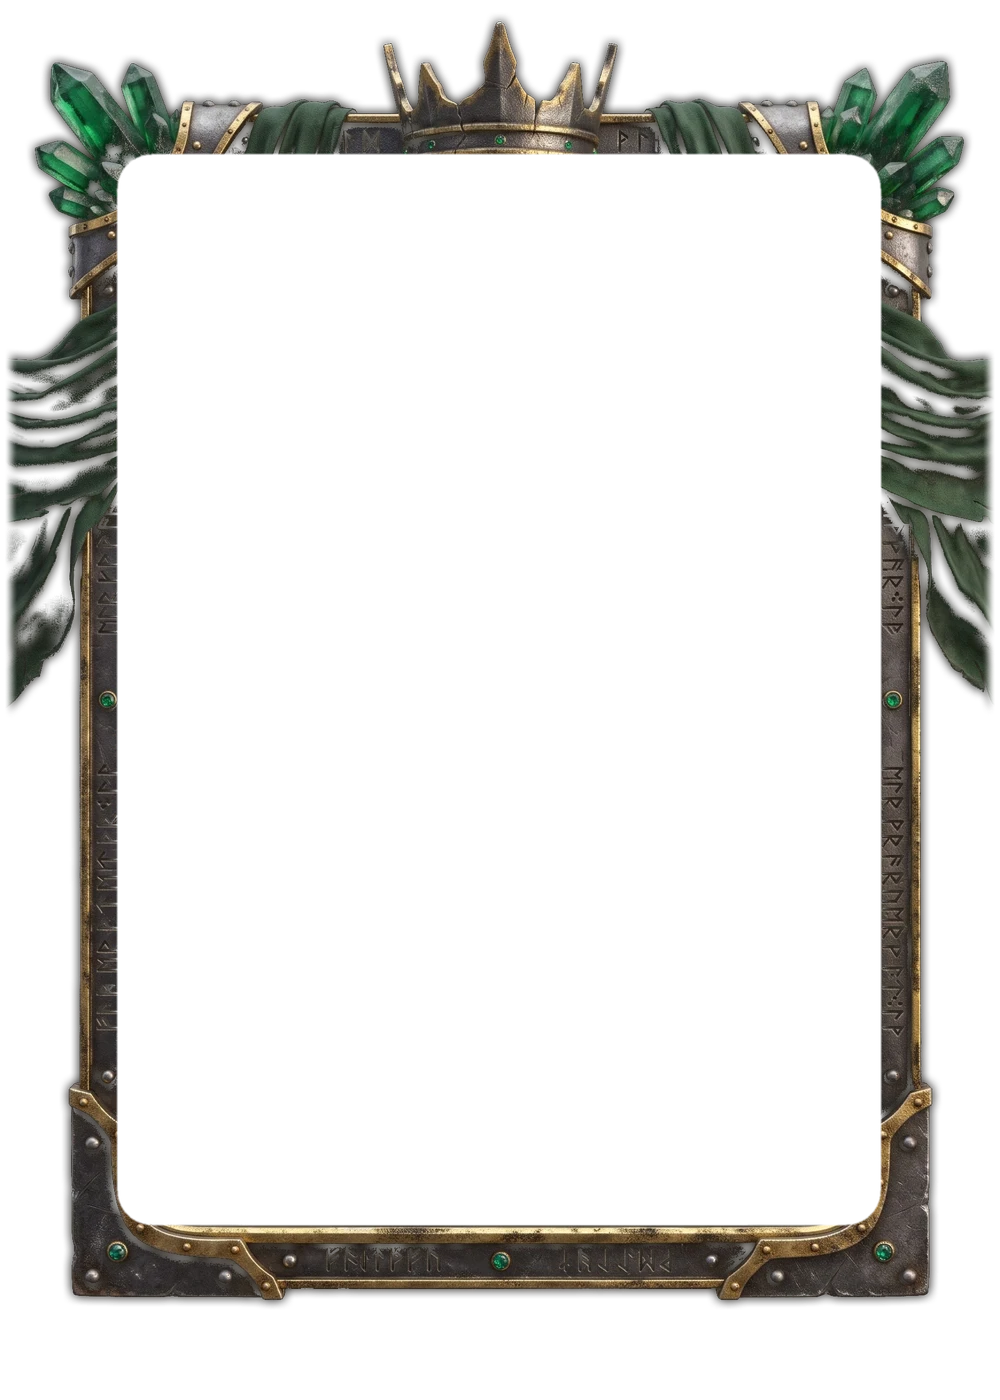
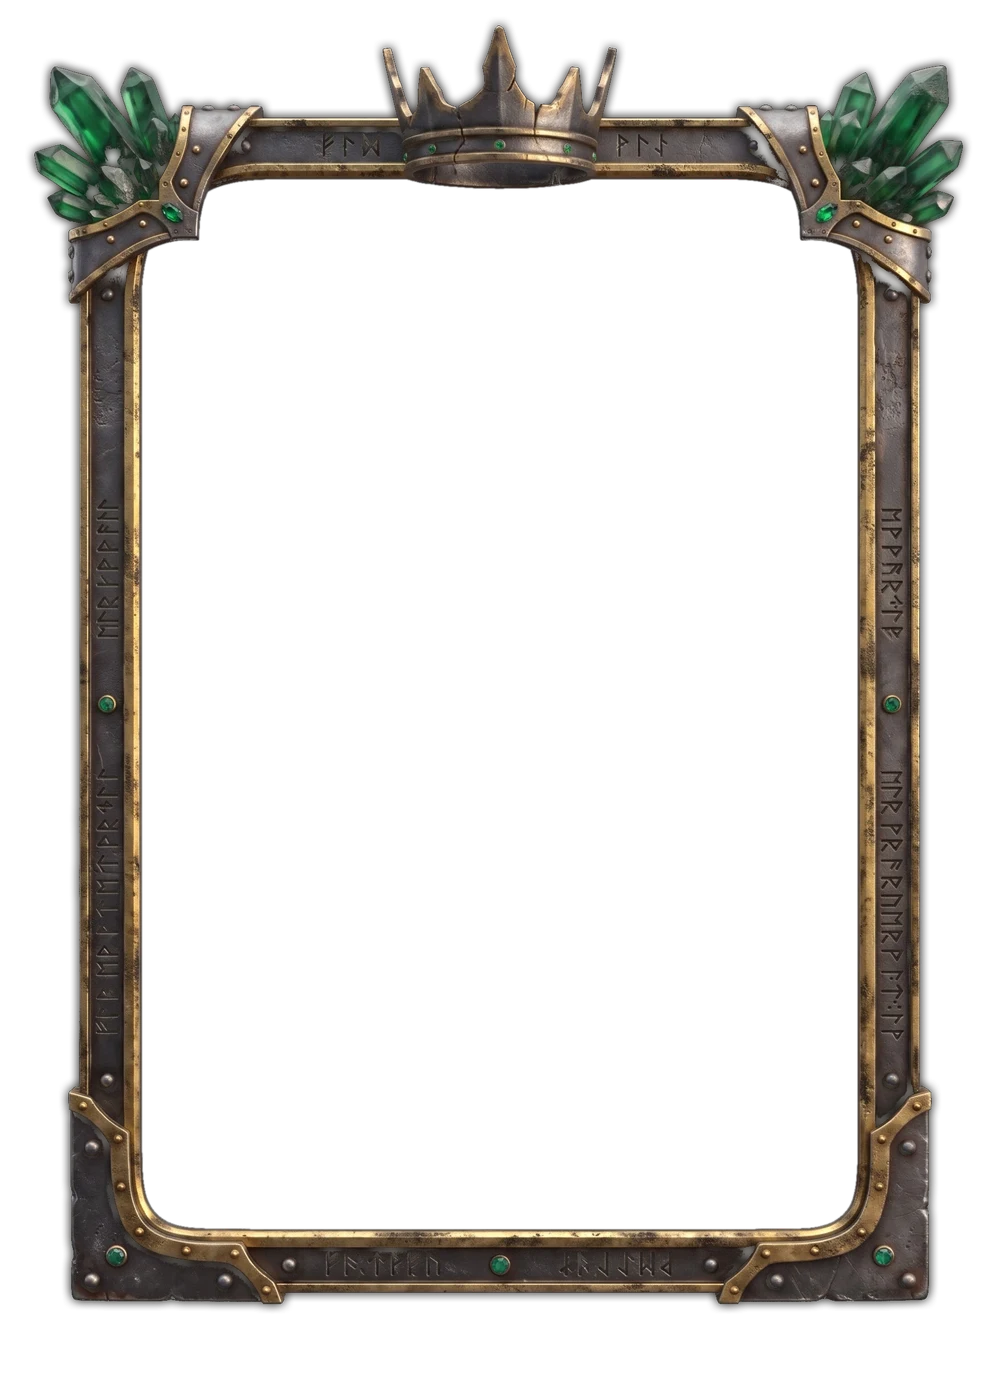
rebuild Destino with the cloth-free frame
Claude-Session: https://claude.ai/code/session_01N8XLJoyFiwvoZXFrULaieo

Changed region(s): [[0.0, 0.0, 1.0, 0.9521]]

diff --git a/components/cancha-card.tsx b/components/cancha-card.tsx
@@ -174,7 +174,7 @@ const ROUPAS = {
   // e moldura fina de ouro com presentes roxos e dourados, laços, bolas de Natal e ametistas (arte do dono em `prototipos/natal-timedomes-*-dono.jpg`).
   natalTimeDoMes: { background: "premium-natal-timedomes", overflow: "premium-natal-timedomes-vaza", statsLift: 4, statsPadX: 12, artInset: { x: 1.43, y: 1.02, radius: 7.5 }, window: "ring", windowInset: { x: 1.43, y: 1.02 }, windowRadius: 7.5, contentPad: 6.25, artFrame: true, trim: null, metal: ["#b8902f", "#b8902f", "#fff1c2"], accent: "#f3d27a", light: "220 180 255", bar: "#1a0a26", muted: "#f1dcc0", sparkles: false, neon: "#f3d27a" },
   // Destino (2026-11-05, evento "Destino" da Loja de dezembro, carta de prestígio, nível 5, 600 CC; design original que só alude a um vilão de cinema, sem nome, logo ou traje): ferro forjado e aço com runas
-  // de um alfabeto inventado brilhando em verde-esmeralda, pano verde-musgo e cristais, e moldura de ferro e ouro velho com runas, coroa de ferro rachada no topo e pano caindo dos cantos (arte do dono em `prototipos/destino-*-dono.jpg`).
+  // de um alfabeto inventado brilhando em verde-esmeralda, pano verde-musgo e cristais, e moldura de ferro e ouro velho com runas, coroa de ferro rachada no topo e pano caindo dos cantos (arte do dono em `prototipos/destino-fundo-dono.jpg` e `destino-borda-sem-pano-dono.jpg`).
   destino: { background: "premium-destino", overflow: "premium-destino-vaza", artInset: { x: 1.43, y: 1.02, radius: 7.5 }, window: "ring", windowInset: { x: 1.43, y: 1.02 }, windowRadius: 7.5, contentPad: 6.25, artFrame: true, trim: null, metal: ["#6b6f73", "#6b6f73", "#d6c07a"], accent: "#c9a85c", light: "120 255 170", bar: "#06100b", muted: "#b9e8c8", sparkles: false, neon: "#3dffa0" },
   // GUARDADAS, fora da Loja (sem entrada em `CARD_SKINS`; para usar: entrada lá, `case` em `skinRoupa` e `SKIN_CLASSES`): Voltagem e Maré.
   // Voltagem (2026-11-05, pedido do dono do app: o estilo da borda da referência dele no nosso retângulo): fio duplo de ouro pálido por dentro e

diff --git a/.claude/rules/design-system.md b/.claude/rules/design-system.md
@@ -47,7 +47,7 @@ Desde 2026-10-29 todas as cartas usam a `CanchaCard` (o `PlayerCard` a chama). A
 - **Lenda do Trovão** (carta de prestígio **do evento Toró**, na seção Evento da Loja, **nível 5, 600 CC**, à venda só até 30/11/2026; aprovada pelo dono do app em 2026-10-31, primeiro como fixa no nível 10 e no mesmo dia passada para o evento no nível 5): a **moldura de metal dourado envelhecido** de um concept que o dono criou no Gemini, com o raio no topo e raios dourados e azuis, entra por fora da carta como arte (`overflow`), **sem o tubo de neon da carta** (`artFrame`), cobrindo uns 12 px da borda; os **raios azuis estalam como trovão** (`overflowBolts`; os dourados ficam acesos, porque têm a cor do metal e não dá para separar pela cor); o fundo é o miolo da arte de tempestade dele (nuvens carregadas com luz dourada). Scripts `prototipos/skin-lenda-arte.cjs` (moldura e raios, do concept) e `skin-lenda-fundo.cjs` (fundo). Para ficar perfeita, o dono vai gerar no Gemini a moldura, o fundo e os raios em peças separadas. Testadas e descartadas no caminho, como experimento: a carta com a arte de chuva (árvore e água) e a de tempestade com moldura azul e dourada.
 - **Moldura fina com louros e gemas (Rubi e Ícone, 2026-11-05, aprovada pelo dono do app):** moldura de ouro de ~3% da largura, louros dourados e gemas **por fora** (arte do Gemini em 728 × 1024, `prototipos/borda-louros-dono.jpg`), montada por `prototipos/montar-carta.cjs` (`GEM="matiz,saturação,luz"` troca só as gemas azuis: rubi na Rubi, diamantes claros na Ícone). **Camadas: a borda por cima de tudo; o conteúdo vai por baixo** (decisão do dono do app): a arte do fundo (`artInset`) e a janela (`windowInset`, 1,43% e 1,02%, raio 7,5cqw) seguem até quase a borda da carta, e `contentPad` (6,25cqw) devolve ao nome, ao selo do OVR, à faixa e às estatísticas o recuo de sempre (também a foto, a vinheta e o escurecimento de baixo acompanham). O miolo da moldura é o preto ligado ao centro (inundação), então o **relevo que cruza a borda de dentro fica por cima do conteúdo**; cortar o miolo num retângulo apagava o relevo interno. **Sem o aglomerado vazando**: o recorte do aglomerado da arte achatada (Voltagem, Rubi e Ícone) ficou "Frankenstein" e foi recusado; vazar só com peça própria do Gemini (elemento sozinho, sobre preto, bem iluminado, sem partes escuras). O formato é sempre o retângulo arredondado 5:7 e as informações nunca mudam; o que muda é o material, os enfeites e o elemento. Regras, prompts e armadilhas no skill `cartas-cancha`.
 - **Cartas de Natal de dezembro de 2026 (2026-11-05, GUARDADAS, ainda não ligadas; decisão do dono do app; o Time da Semana saiu do jogo):** mesmo padrão da Rubi e da Ícone (borda por cima, conteúdo por baixo, enfeites por cima do conteúdo; `montar-carta.cjs`). **Verde = Campeão do Mês** (`natalCampeao`, `51,89,677,971 - 12 30,31,698,983`; tricô verde e moldura com pinheiro, laços, sinos e azevinho). **Azul-gelo = destaques da rodada** (`natalGelo`, `110,160,1313,1845 - 12 18,31,710,1002`; boneco de neve, laços azuis e montes de neve que cobrem os cantos de baixo, `statsLift` 6: aprovado deixar um pouco de enfeite sob os números; `statsPadX` e `namePadX` existem sem uso). **Vermelha = Melhor Jogador da rodada** (`natalCraque`, `51,80,677,945 - 12 31,35,697,990`, `statsLift` 6; sinos, estrela, laços, pinhas, laranjas e neve). **Cinza-carvão = Bola Murcha** (`natalMurcha`, `131,192,1598,2240 - 12 76,84,1654,2352`; tricô cinza com o presente que solta a bola murcha, moldura de aço fosco com pinheiro, laços e bola de pano murcha; `matte`, `statsLift` 3, `namePadX` 6). **Roxa = Time do Mês** (`natalTimeDoMes`, `177,253,1553,2216 - 12 46,75,1686,2380`; tricô roxo com presentes em ouro e creme, moldura fina de ouro com presentes roxos e dourados, laços, bolas e ametistas; `statsLift` 4 e `statsPadX` 12 para as bolas de baixo não cobrirem os números). **Todas as cartas de Natal têm arte**; falta ligar o tema de dezembro.
-- **Destino (2026-11-05, evento "Destino" da Loja de dezembro, carta de prestígio, nível 5 e 600 CC; GUARDADA, ainda fora de `CARD_SKINS`):** design original que só alude a um vilão de cinema (sem nome, logo ou traje): ferro forjado com runas de um alfabeto inventado em verde-esmeralda, pano verde-musgo e cristais; moldura de ferro e ouro velho com runas, coroa de ferro rachada no topo e pano caindo dos cantos. `montar-carta.cjs ... 133,191,1596,2240 197,265,1527,2130,60 12 73,76,1657,2356` com `OPAQUE="12,45,30"` (peças escuras como o pano viravam translúcidas pelo brilho; o padrão é `14,110,55`) e **`holeRect`** (o pano entrava fundo na carta e cobria o nome e o OVR). O montador agora também **esmaece 24 px da borda da imagem** (o pano vinha cortado reto). Roupa `destino`.
+- **Destino (2026-11-05, evento "Destino" da Loja de dezembro, carta de prestígio, nível 5 e 600 CC; GUARDADA, ainda fora de `CARD_SKINS`):** design original que só alude a um vilão de cinema (sem nome, logo ou traje): fundo de ferro forjado com runas de um alfabeto inventado em verde-esmeralda, pano verde-musgo e cristais (`destino-fundo-dono.jpg`) e moldura de ferro e ouro velho com runas, **coroa de ferro rachada no topo e cristais verdes nos cantos de cima, sem pano** (`destino-borda-sem-pano-dono.jpg`; a primeira moldura, com um pano enrolado caindo dos cantos, ficou estranha e o dono mandou outra). `montar-carta.cjs ... 123,176,1605,2271 - 12 73,76,1657,2356` com `OPAQUE="12,45,30"` (peças escuras como o ferro viravam translúcidas pelo brilho; o padrão é `14,110,55`). O montador também **esmaece 24 px da borda da imagem** (peças cortadas pela borda). Roupa `destino`.
 - **Voltagem e Maré (2026-11-05, GUARDADAS, fora da Loja e sem entrada em `CARD_SKINS`):** Voltagem (fio duplo de ouro pálido e linhas de neon, `prototipos/voltagem.cjs`) e Maré (moldura de ouro fina com enfeites e a água abstrata do Gemini, `premium-mare*`); o dono não escolheu nível e preço. Para usar: entrada em `CARD_SKINS`, `case` em `skinRoupa` e `SKIN_CLASSES`.
 - **Skins premium com cristais (aprovadas pelo dono do app em 2026-11-01; Esmeralda, Safira, Ametista e Rubi):** uma arte só que o dono gerou no Gemini (safira e ouro: fundo azul-noite com estrelas, fio de ouro, neon e um aglomerado de cristais com pepitas de ouro que sai pelo lado direito **por cima** da moldura), reaproveitada nas quatro pedras girando só o tom dos azuis (o ouro fica). `prototipos/premium-v2.cjs` ajusta a arte: proporção 5:7, o neon da arte é **redesenhado concêntrico ao ouro** (respiro de ~1,5% da largura nos quatro lados e nos cantos; o da arte tinha o canto mais fechado e um vão grande) e só ao lado do aglomerado vale o neon original, com passagem suave; saem `premium-<pedra>.webp` (fundo na janela) e `premium-<pedra>-vaza.webp` (moldura e cristais por fora, mais larga só para a direita: `overflowWidth` 774/714, porque o aglomerado passa da sobra de 8%). Cor nova de pedra = uma linha em `GEMS`. Roupas com `artFrame`, `overflow` e `overflowWidth`. **Lição do dono (2026-11-01):** o fundo da carta é o que mais pesa no premium; neon contínuo, fino e simétrico (sem aberturas irregulares); o que vaza passa por cima da moldura. Faixa de estatísticas continua escura e sólida (o vidro fosco foi testado e descartado: misturava estilos). Gemini: dar o gabarito 5:7 e pedir uma camada por mensagem. **O story de compartilhar não usa essa arte** (só cartas de prêmio).
 - **Ícone (2026-11-01, mesmo caminho, outra arte do Gemini):** mármore branco-creme com veios dourados, tubo e fio de ouro (já concêntricos, mantidos como vieram), aglomerado de quartzo, diamantes e pepitas de ouro por cima da moldura; `prototipos/premium-icone.cjs` (sem girar cor). Fundo claro: a roupa leva `clean` (sem a sombra atrás da pessoa, sem a vinheta e sem o degradê escuro que desce até as estatísticas: no mármore eles apareciam como sujeira). **Regra que serve para as próximas artes:** por dentro da carta, a camada de fora (`-vaza`) cobre só o que está fora da janela da carta (fio de ouro e cantos, medido pela janela arredondada); se ela entrar na janela, vira uma faixa por cima do ombro da foto (foi o que o dono viu na Ícone). A foto de exemplo termina com um corte reto antes da borda: com a faixa fora da janela, o corpo chega às duas bordas. A rampa da camada de fora fica 1 a 3 px **por dentro** da janela, onde o fundo sempre está presente: se ela passa da borda (que cai no meio de um pixel), uma coluna meio transparente deixa o escuro de trás aparecer e vira um risco fino por cima dos cristais. Os cristais translúcidos deixam ver o fio de ouro por baixo, como na arte. As premium com cristais (Safira etc.) ainda deixam ~7 px de faixa por cima da foto.

diff --git a/docs/calendario-eventos.md b/docs/calendario-eventos.md
@@ -50,7 +50,7 @@ Cada ideia pode ter: tema das cartas especiais, 1 ou 2 cartas na Loja e, opciona
     - **Cinza-carvão = Bola Murcha** ("carvão de Natal"): tricô cinza com um presente que solta uma bola murcha e moldura de aço fosco com pinheiro, laços vermelhos, bolinhas e uma bola de pano murcha no topo. Roupa `natalMurcha` (`matte`, `statsLift` 3, `namePadX` 6), `premium-natal-murcha*.webp`, arte em `prototipos/natal-murcha-*-dono.jpg`.
     - **Roxa = Time do Mês** (o único time que existe): tricô roxo com presentes e flocos em ouro e creme e moldura fina de ouro com presentes roxos e dourados, laços, bolas de Natal e ametistas. Roupa `natalTimeDoMes` (`statsLift` 4, `statsPadX` 12), `premium-natal-timedomes*.webp`, arte em `prototipos/natal-timedomes-*-dono.jpg`.
     - **Com isso, todas as cartas de Natal têm arte.** Falta ligar o tema de dezembro no app.  - **Natal nas cartas de premiação:** é o tema sazonal de dezembro em `CARD_THEMES` (as cartas especiais da rodada vestem o Natal). Ideia anterior para o visual, ainda a aprovar: natalino discreto (vermelho e verde-pinheiro, neve leve).
-  - ✅ **Mudança de rumo (2026-11-05, dono do app): evento "Destino" na Loja, em vez de Vingadores literais.** Sem direitos autorais: só alusões (cor, material, símbolo genérico; nada de nome, logo, traje ou rosto), como no Brasileirão que ele já tinha tirado. Estrutura igual à de novembro: **2 cartas básicas (nível 3, 200 CC) e 1 de prestígio (nível 5, 600 CC)**: **Destino** (prestígio: ferro escuro, runas e fogo verde-esmeralda, coroa de ferro rachada), **Reator** (aço, vermelho-escuro e dourado com um anel de energia azul-gelo) e **Fúria** (rocha rachada com energia verde). Os prêmios vestem o Natal e a Loja o Destino (dois eventos no mês). Prompts em `loja-destino-prompts.md` (nesta conversa). **Já montada: Destino** (roupa `destino`, `premium-destino*.webp`, arte em `prototipos/destino-*-dono.jpg`, guardada fora de `CARD_SKINS`). Faltam Reator e Fúria e separar no código o evento da Loja do tema dos prêmios (`isCardSkinOnSale` hoje usa o tema dos prêmios; a Loja precisa de um evento próprio, "Evento · Destino"). As cartas do Toró saem da Loja em 1º/12 (quem comprou continua usando).
+  - ✅ **Mudança de rumo (2026-11-05, dono do app): evento "Destino" na Loja, em vez de Vingadores literais.** Sem direitos autorais: só alusões (cor, material, símbolo genérico; nada de nome, logo, traje ou rosto), como no Brasileirão que ele já tinha tirado. Estrutura igual à de novembro: **2 cartas básicas (nível 3, 200 CC) e 1 de prestígio (nível 5, 600 CC)**: **Destino** (prestígio: ferro escuro, runas e fogo verde-esmeralda, coroa de ferro rachada), **Reator** (aço, vermelho-escuro e dourado com um anel de energia azul-gelo) e **Fúria** (rocha rachada com energia verde). Os prêmios vestem o Natal e a Loja o Destino (dois eventos no mês). Prompts em `loja-destino-prompts.md` (nesta conversa). **Já montada: Destino** (roupa `destino`, `premium-destino*.webp`, arte em `prototipos/destino-fundo-dono.jpg` e `destino-borda-sem-pano-dono.jpg`, guardada fora de `CARD_SKINS`; a moldura com pano enrolado foi descartada). Faltam Reator e Fúria e separar no código o evento da Loja do tema dos prêmios (`isCardSkinOnSale` hoje usa o tema dos prêmios; a Loja precisa de um evento próprio, "Evento · Destino"). As cartas do Toró saem da Loja em 1º/12 (quem comprou continua usando).
   - **Vingadores: Doomsday na Loja:** as cartas de evento à venda em dezembro são dos Vingadores (filme da Marvel; estreia prevista para meados de dezembro de 2026, conferir a data no Brasil).
   - **Time do Ano ("Team of the Season") na última semana do ano:** carta especial da temporada, como o TOTY/TOTS da EA FC; ideia anterior: as maiores médias de 2026 da pelada. Regra exata (quem entra, mínimo de notas, em que rodada sai) a definir.
   - **A decidir aos poucos** (palavras do dono do app): quantidade de cartas, temas/visuais e valores (nível e preço). A tela de "Retrospectiva" do ano (jogos, melhor rodada, prêmios de cada um) era ideia antiga e não foi confirmada.
